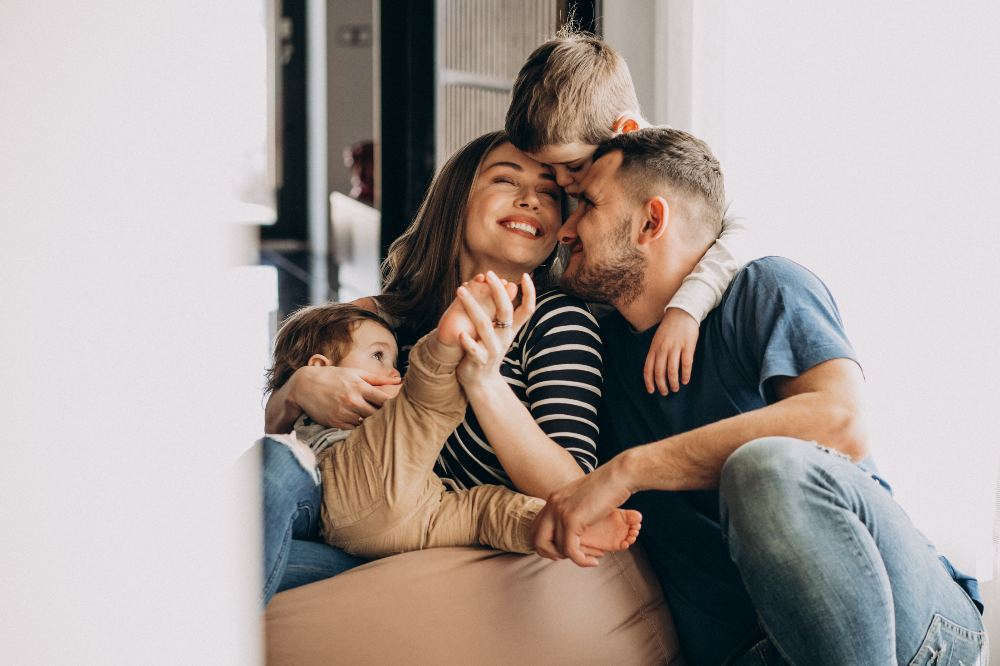
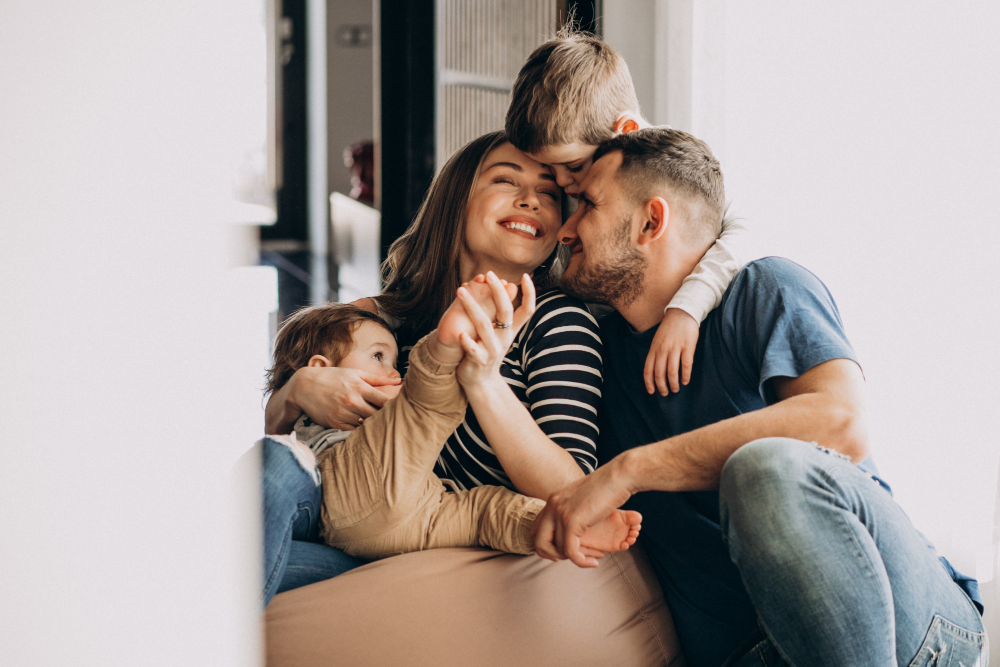
feat: layout da hero com foto de fundo e cartao flutuante (referencia enviada)
Layout novo pra hero, inspirado numa referencia enviada: foto em tela
cheia (familiaHeroSection.jpg) com um cartao de filtro flutuando por
cima, colado a esquerda.

- Remove o gradiente laranja -> #ff608c de .btn--primary e .hl,
  voltando a cor solida de marca (--accent-primary) — pedido explicito
  desta tarefa, vale pra esses componentes em qualquer pagina que os usa
- Titulo da hero trocado para "Encontre um lugar para chamar de seu"
- Pilula "Buscar imoveis" / "Anunciar imovel" no topo do cartao (o
  segundo item linka de verdade pra /anunciar)
- Abas Alugar/Comprar (Alugar como padrao agora, e sem a antiga aba
  "Imovel novo" — a pilula acima ja cobre esse caso)
- Formulario com Cidade, Bairro (campo novo), Valor total ate e
  Quartos lado a lado, botao "Buscar imoveis" em largura cheia

Bairro agora e um filtro de verdade, nao so decorativo: nao existe
coluna de bairro na tabela imovel, entao FiltroImovel/InicioServlet/
ImovelDAO ganham suporte a esse parametro comparando contra a coluna
endereco (onde o bairro fica embutido desde a publicacao do anuncio,
ver AnuncioWizardServlet) — testado end-to-end, inclusive aparecendo
como chip de filtro ativo no catalogo.

Cache-busting bumpado para v=47.

diff --git a/src/main/webapp/css/habittar.css b/src/main/webapp/css/habittar.css
@@ -124,10 +124,6 @@ h3.display {
 
 .hl {
   color: var(--accent-primary);
-  background: linear-gradient(135deg, var(--accent-primary) 0%, #ff608c 100%);
-  background-clip: text;
-  -webkit-background-clip: text;
-  -webkit-text-fill-color: transparent;
 }
 
 /* Remove as setinhas nativas de incremento/decremento dos campos numéricos
@@ -406,12 +402,12 @@ input[type="number"]::-webkit-inner-spin-button {
 }
 
 .btn--primary {
-  background: linear-gradient(135deg, var(--accent-primary) 0%, #ff608c 100%);
+  background: var(--accent-primary);
   color: var(--text-inverse);
   box-shadow: var(--shadow-card);
 }
 .btn--primary:hover {
-  background: linear-gradient(135deg, var(--accent-primary-hover) 0%, #ff608c 100%);
+  background: var(--accent-primary-hover);
 }
 .btn--primary:hover .btn__pin {
   transform: translateY(2px);
@@ -651,55 +647,42 @@ input[type="number"]::-webkit-inner-spin-button {
    Hero
    -------------------------------------------------------------------------- */
 .hero {
+  position: relative;
   padding-top: var(--nav-h);
   min-height: 100vh;
   display: flex;
   align-items: center;
   overflow: hidden;
 }
-.hero .wrap {
-  width: 100%;
-}
 
 @media (max-width: 860px) {
   .hero {
     min-height: auto;
     padding-top: calc(var(--nav-h) + 40px);
-    padding-bottom: 40px;
+    padding-bottom: 60px;
   }
 }
 
-.hero__grid {
-  display: grid;
-  /* 7fr/5fr em vez de 6fr/6fr: a coluna de texto precisa de mais espaço
-     que a do card de filtro — com .wrap limitado a 1120px, 6fr/6fr
-     deixava essa coluna espremida demais. */
-  grid-template-columns: 7fr 5fr;
-  gap: 56px;
-  align-items: center;
+/* Foto de fundo em tela cheia — o cartão de filtro flutua por cima dela,
+   colado à esquerda (ver .hero__filtro-card). */
+.hero__foto {
+  position: absolute;
+  inset: 0;
+  z-index: 0;
+}
+.hero__foto img {
+  width: 100%;
+  height: 100%;
+  object-fit: cover;
+  display: block;
 }
 
-@media (max-width: 1024px) {
-  .hero__grid {
-    grid-template-columns: 68fr 32fr;
-    gap: 24px;
-  }
-}
-@media (max-width: 860px) {
-  .hero__grid {
-    grid-template-columns: 1fr;
-  }
+.hero__wrap {
+  position: relative;
+  z-index: 1;
+  width: 100%;
 }
 
-/* Busca — a coluna do hero onde ela mora vira um container query context:
-   a barra reage à largura REAL da coluna (que na maioria das telas é bem
-   menor que a tela inteira, por causa do grid de duas colunas do hero),
-   não à largura da janela. É isso que garante nunca ter linha de texto
-   cortada nem um jeito de "quase cabe, quase não cabe" que uma media
-   query comum (baseada em viewport) não consegue prever. */
-.hero__busca {
-  container-type: inline-size;
-}
 
 .search {
   margin-top: 16px;
@@ -941,12 +924,51 @@ input[type="number"]::-webkit-inner-spin-button {
    com abas Comprar/Alugar/Imóvel novo e os campos empilhados (localização,
    tipo, botão Buscar largura cheia).
    -------------------------------------------------------------------------- */
+/* O cartão de filtro vira um container query context: os campos reagem
+   à largura REAL do cartão (bem mais estreito que a tela inteira, já que
+   ele flutua sobre a foto de fundo), não à largura da janela. */
 .hero__filtro-card {
+  container-type: inline-size;
+  position: relative;
+  z-index: 1;
   background: var(--surface-raised);
   border: 1px solid var(--border-subtle);
   border-radius: var(--radius-lg, 24px);
-  box-shadow: var(--shadow-card);
+  box-shadow: var(--shadow-card-hover, var(--shadow-card));
   padding: 40px;
+  max-width: 460px;
+}
+
+/* Pílula "Buscar imóveis" / "Anunciar imóvel" no topo do cartão */
+.hero__cartao-pill {
+  display: inline-flex;
+  background: var(--surface-page);
+  border-radius: var(--radius-full);
+  padding: 4px;
+  margin-bottom: 28px;
+  gap: 4px;
+}
+.hero__cartao-pill span,
+.hero__cartao-pill a {
+  display: inline-flex;
+  align-items: center;
+  padding: 10px 20px;
+  border-radius: var(--radius-full);
+  font-size: 14px;
+  font-weight: 600;
+  color: var(--text-secondary);
+}
+.hero__cartao-pill span.is-active {
+  background: var(--surface-raised);
+  color: var(--text-primary);
+  box-shadow: var(--shadow-card);
+}
+.hero__cartao-pill a:hover {
+  color: var(--text-primary);
+}
+
+.hero__cartao-titulo {
+  margin-bottom: 28px;
 }
 
 .hero__filtro-tabs {
@@ -1009,6 +1031,18 @@ input[type="number"]::-webkit-inner-spin-button {
   color: var(--text-secondary);
 }
 
+/* Linha "Valor total até" + "Quartos" lado a lado */
+.hero__filtro-linha {
+  display: grid;
+  grid-template-columns: 1fr 1fr;
+  gap: 14px;
+}
+@container (max-width: 320px) {
+  .hero__filtro-linha {
+    grid-template-columns: 1fr;
+  }
+}
+
 .hero__filtro-select {
   appearance: none;
   -webkit-appearance: none;
@@ -1034,7 +1068,8 @@ input[type="number"]::-webkit-inner-spin-button {
 
 @media (max-width: 860px) {
   .hero__filtro-card {
-    margin-top: 32px;
+    max-width: none;
+    padding: 28px;
   }
 }
 

diff --git a/src/main/java/controller/InicioServlet.java b/src/main/java/controller/InicioServlet.java
@@ -82,6 +82,7 @@ public class InicioServlet extends HttpServlet {
 	private FiltroImovel montarFiltro(HttpServletRequest requisicao) {
 		FiltroImovel filtro = new FiltroImovel();
 		filtro.setCidade(paramTexto(requisicao, "cidade"));
+		filtro.setBairro(paramTexto(requisicao, "bairro"));
 		filtro.setEstado(paramTexto(requisicao, "estado"));
 		filtro.setTipo(paramEnum(TipoImovel.class, requisicao, "tipo"));
 		filtro.setFinalidade(paramEnum(Finalidade.class, requisicao, "finalidade"));
@@ -95,7 +96,7 @@ public class InicioServlet extends HttpServlet {
 	}
 
 	private boolean filtroVazio(FiltroImovel filtro) {
-		return filtro.getCidade() == null && filtro.getEstado() == null && filtro.getTipo() == null
+		return filtro.getCidade() == null && filtro.getBairro() == null && filtro.getEstado() == null && filtro.getTipo() == null
 				&& filtro.getFinalidade() == null && filtro.getPrecoMinimo() == null
 				&& filtro.getPrecoMaximo() == null && filtro.getQuartosMinimo() == null
 				&& filtro.getBanheirosMinimo() == null && filtro.getVagasMinimo() == null

diff --git a/src/main/java/dao/ImovelDAO.java b/src/main/java/dao/ImovelDAO.java
@@ -182,6 +182,13 @@ public class ImovelDAO {
 			sql.append(" AND i.cidade LIKE ?");
 			parametros.add("%" + filtro.getCidade().trim() + "%");
 		}
+		if (textoPreenchido(filtro.getBairro())) {
+			// Não existe coluna de bairro própria — o bairro fica embutido no
+			// texto de endereco (ver AnuncioWizardServlet.processarEtapa5), daí
+			// o LIKE contra essa coluna em vez de uma comparação exata.
+			sql.append(" AND i.endereco LIKE ?");
+			parametros.add("%" + filtro.getBairro().trim() + "%");
+		}
 		if (textoPreenchido(filtro.getEstado())) {
 			sql.append(" AND i.estado = ?");
 			parametros.add(filtro.getEstado().trim());

diff --git a/src/main/java/model/FiltroImovel.java b/src/main/java/model/FiltroImovel.java
@@ -11,6 +11,7 @@ import java.math.BigDecimal;
 public class FiltroImovel {
 
 	private String cidade;
+	private String bairro;
 	private String estado;
 	private TipoImovel tipo;
 	private Finalidade finalidade;
@@ -27,6 +28,14 @@ public class FiltroImovel {
 
 	public void setCidade(String cidade) {
 		this.cidade = cidade;
+	}
+
+	public String getBairro() {
+		return bairro;
+	}
+
+	public void setBairro(String bairro) {
+		this.bairro = bairro;
 	}
 
 	public String getEstado() {
